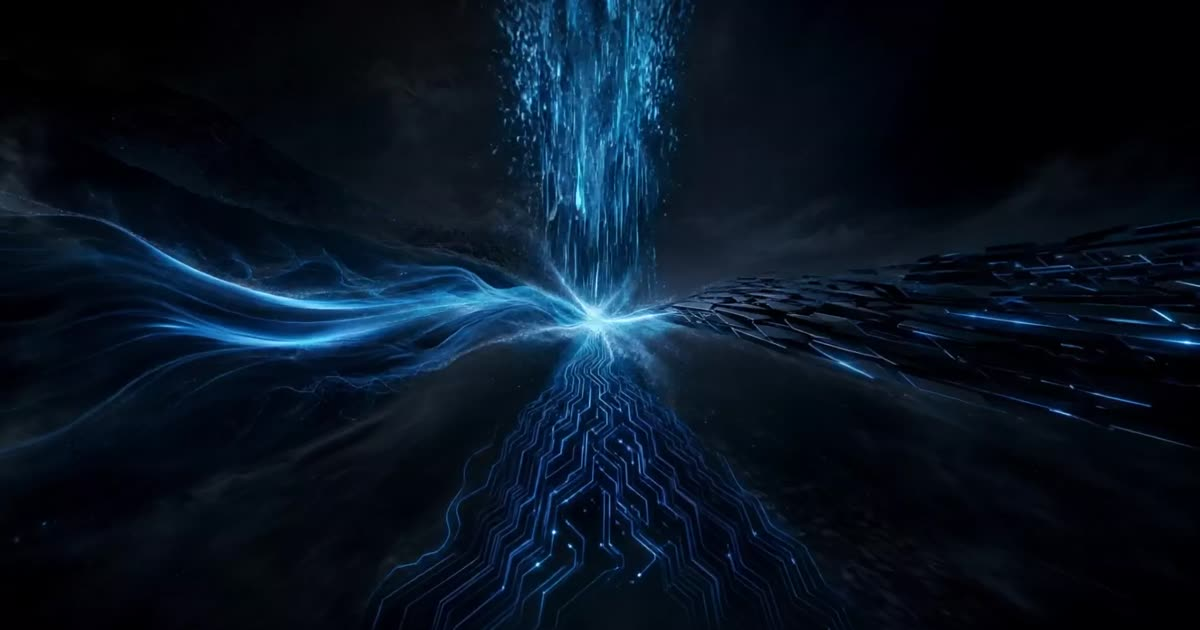
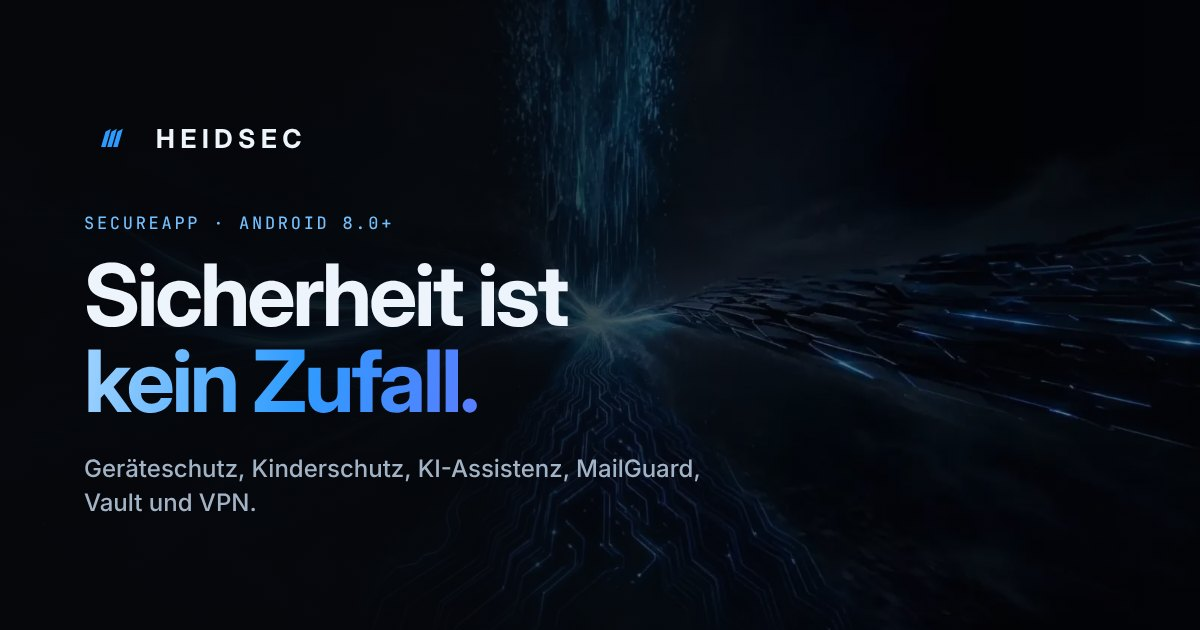
feat(landing-2): Tarife, Kombipakete, Kinderschutz und Business finalisieren
- Kombipakete (monatlich): PRO+VPN 12,98 €, PRO+MailGuard 10,98 €,
  PRO+Vault 10,98 €, PRO+MailGuard+Vault 13,97 €
- Kinderschutz in PRO und KI, KI-Sicherheitsassistenz mit 20 KI-Analysen/Monat
- Business PRO/KI Complete für 10–50 Geräte inkl. Jahrespreisen im Umschalter
- Zusatzgerät und Gerätelimits im Preis-Hinweis präzisiert
- Unbelegte Aussagen zu ausschließlich lokaler KI und Nichtübertragung entfernt
- Messenger-Produktstatus gekennzeichnet (nur Business-Pakete)
- Neues gebrandetes OG-Bild, OG/Twitter-Meta und JSON-LD aktualisiert

Claude-Session: https://claude.ai/code/session_01Q8CXDH6UExhyf4xjXfxUx2

diff --git a/landing-2/index.html b/landing-2/index.html
@@ -4,7 +4,7 @@
   <meta charset="utf-8" />
   <meta name="viewport" content="width=device-width, initial-scale=1, viewport-fit=cover" />
   <title>HeidSec SecureApp – Schutz für Smartphone, E-Mail, Daten und Verbindung</title>
-  <meta name="description" content="HeidSec SecureApp für Android: Geräteschutz, MailGuard, Vault, VPN und ein sicherer Messenger in einer App. Kostenlos starten mit FREE, erweitern mit PRO oder KI – die KI-Analyse läuft ausschließlich lokal auf deinem Gerät." />
+  <meta name="description" content="HeidSec SecureApp für Android: Geräte- und App-Schutz, Kinderschutz ab PRO, KI-Sicherheitsassistenz im KI-Tarif sowie MailGuard, Vault und VPN als Module und Kombipakete. Kostenlos starten mit FREE." />
   <meta name="robots" content="index, follow" />
   <link rel="canonical" href="https://www.heidsec.de/" />
   <meta name="theme-color" content="#05070b" />
@@ -15,12 +15,16 @@
   <meta property="og:locale" content="de_DE" />
   <meta property="og:url" content="https://www.heidsec.de/" />
   <meta property="og:title" content="HeidSec – Sicherheit ist kein Zufall." />
-  <meta property="og:description" content="Geräteschutz, MailGuard, Vault, VPN und sicherer Messenger in einer App. Kostenlos starten, bei Bedarf erweitern." />
-  <meta property="og:image" content="https://www.heidsec.de/heidsec/og-image.jpg" />
+  <meta property="og:description" content="Geräteschutz, Kinderschutz, KI-Sicherheitsassistenz, MailGuard, Vault und VPN. Kostenlos starten, bei Bedarf erweitern." />
+  <meta property="og:image" content="https://www.heidsec.de/assets/img/og-image.jpg" />
+  <meta property="og:image:type" content="image/jpeg" />
   <meta property="og:image:width" content="1200" />
   <meta property="og:image:height" content="630" />
   <meta property="og:image:alt" content="HeidSec – Sicherheit ist kein Zufall." />
   <meta name="twitter:card" content="summary_large_image" />
+  <meta name="twitter:title" content="HeidSec – Sicherheit ist kein Zufall." />
+  <meta name="twitter:description" content="Geräteschutz, Kinderschutz, KI-Sicherheitsassistenz, MailGuard, Vault und VPN. Kostenlos starten, bei Bedarf erweitern." />
+  <meta name="twitter:image" content="https://www.heidsec.de/assets/img/og-image.jpg" />
 
   <link rel="icon" type="image/svg+xml" href="assets/img/favicon.svg" />
   <link rel="icon" type="image/png" sizes="32x32" href="assets/img/favicon-32.png" />
@@ -59,21 +63,27 @@
         "applicationCategory": "SecurityApplication",
         "operatingSystem": "Android 8.0+",
         "publisher": { "@id": "https://www.heidsec.de/#organization" },
-        "description": "Sicherheits-App mit Geräte- und App-Schutz, MailGuard, Vault, VPN und sicherem Messenger (Textchat und Voice Calls). KI-Analyse ausschließlich lokal auf dem Gerät.",
+        "description": "Sicherheits-App mit Geräte- und App-Schutz, Kinderschutz (PRO und KI), KI-Sicherheitsassistenz (KI-Tarif, 20 KI-Analysen pro Monat) sowie MailGuard, Vault und VPN als zubuchbare Module.",
         "offers": [
           { "@type": "Offer", "name": "SecureApp FREE", "price": "0", "priceCurrency": "EUR" },
           { "@type": "Offer", "name": "SecureApp PRO (monatlich)", "price": "7.99", "priceCurrency": "EUR" },
           { "@type": "Offer", "name": "SecureApp PRO (jährlich)", "price": "79.99", "priceCurrency": "EUR" },
           { "@type": "Offer", "name": "SecureApp KI (monatlich)", "price": "12.99", "priceCurrency": "EUR" },
-          { "@type": "Offer", "name": "SecureApp KI (jährlich)", "price": "129.99", "priceCurrency": "EUR" }
+          { "@type": "Offer", "name": "SecureApp KI (jährlich)", "price": "129.99", "priceCurrency": "EUR" },
+          { "@type": "Offer", "name": "Kombipaket PRO + VPN (monatlich)", "price": "12.98", "priceCurrency": "EUR" },
+          { "@type": "Offer", "name": "Kombipaket PRO + MailGuard (monatlich)", "price": "10.98", "priceCurrency": "EUR" },
+          { "@type": "Offer", "name": "Kombipaket PRO + Vault (monatlich)", "price": "10.98", "priceCurrency": "EUR" },
+          { "@type": "Offer", "name": "Kombipaket PRO + MailGuard + Vault (monatlich)", "price": "13.97", "priceCurrency": "EUR" }
         ]
       },
       {
         "@type": "FAQPage",
         "mainEntity": [
           { "@type": "Question", "name": "Ist SecureApp FREE wirklich kostenlos?", "acceptedAnswer": { "@type": "Answer", "text": "Ja. SecureApp FREE kostet 0 € und bietet Basisschutz – ohne feste Laufzeit und jederzeit beendbar." } },
-          { "@type": "Question", "name": "Was ist der Unterschied zwischen FREE, PRO und KI?", "acceptedAnswer": { "@type": "Answer", "text": "FREE ist die kostenlose Basisversion. PRO (7,99 € im Monat oder 79,99 € im Jahr) erweitert den Leistungsumfang. KI (12,99 € im Monat oder 129,99 € im Jahr) bietet erweiterten Leistungsumfang inklusive Security-AI, die ausschließlich lokal auf deinem Gerät arbeitet." } },
-          { "@type": "Question", "name": "Kann ich im Messenger Dateien verschicken?", "acceptedAnswer": { "@type": "Answer", "text": "Nein, bewusst nicht. Der HeidSec Messenger ist auf sicheren Textchat und Voice Calls ausgelegt. Dateianhänge werden nicht unterstützt." } },
+          { "@type": "Question", "name": "Was ist der Unterschied zwischen FREE, PRO und KI?", "acceptedAnswer": { "@type": "Answer", "text": "FREE ist die kostenlose Basisversion. PRO (7,99 € im Monat oder 79,99 € im Jahr) erweitert den Leistungsumfang und enthält den Kinderschutz. KI (12,99 € im Monat oder 129,99 € im Jahr) enthält zusätzlich die KI-Sicherheitsassistenz mit 20 KI-Analysen pro Monat. VPN, MailGuard und Vault sind in keinem Tarif enthalten und separat oder als Kombipaket buchbar." } },
+          { "@type": "Question", "name": "Kann ich im Messenger Dateien verschicken?", "acceptedAnswer": { "@type": "Answer", "text": "Nein, bewusst nicht. Der HeidSec Messenger ist auf sicheren Textchat und Voice Calls ausgelegt. Dateien, Bilder und Videoanrufe werden nicht unterstützt. Enthalten ist der Messenger in Business PRO Complete und Business KI Complete; den Privattarifen FREE, PRO und KI ist er derzeit nicht zugeordnet." } },
+          { "@type": "Question", "name": "Gibt es Kombipakete?", "acceptedAnswer": { "@type": "Answer", "text": "Ja. PRO + VPN kostet 12,98 € im Monat, PRO + MailGuard 10,98 €, PRO + Vault 10,98 € und PRO + MailGuard + Vault 13,97 € im Monat." } },
+          { "@type": "Question", "name": "Für welche Tarife gilt der Kinderschutz?", "acceptedAnswer": { "@type": "Answer", "text": "Der Kinderschutz (Parental Control) ist in SecureApp PRO und SecureApp KI enthalten, nicht in FREE." } },
           { "@type": "Question", "name": "Welche Geräte werden unterstützt?", "acceptedAnswer": { "@type": "Answer", "text": "HeidSec SecureApp läuft auf Android-Geräten ab Version 8.0." } }
         ]
       }
@@ -402,6 +412,9 @@
     .composer .noattach { position: relative; width: 22px; height: 22px; color: var(--mist-2); opacity: .7; }
     .composer .noattach svg { width: 22px; height: 22px; }
     .composer .noattach::after { content: ""; position: absolute; left: -2px; right: -2px; top: 50%; height: 2px; background: var(--alert); transform: rotate(-45deg); border-radius: 2px; }
+    .msg-status { margin-top: 26px; display: flex; gap: 14px; align-items: flex-start; flex-wrap: wrap; padding: 16px 18px; border-radius: var(--radius-sm); background: rgba(46,155,255,.06); border: 1px solid rgba(46,155,255,.2); font-size: 14.5px; color: #cfe0f2; }
+    .msg-status p { flex: 1 1 260px; }
+    .msg-status strong { color: var(--frost); font-weight: 600; }
     @media (max-width: 900px) { .messenger-grid { grid-template-columns: 1fr; } }
 
     /* ---------- pricing ---------- */
@@ -442,6 +455,25 @@
     .addon .price { margin-top: auto; padding-top: 16px; }
     .addon .amt { font-size: 30px; }
     .addon .price-sub { min-height: 20px; margin-top: 4px; font-size: 12.5px; }
+    .bundles .addon h4 { font-size: 17px; }
+    .local-note a { color: var(--electric-soft); }
+    .biz-table { margin-top: 26px; border-radius: var(--radius); border: 1px solid var(--line); background: var(--panel); overflow: hidden; }
+    .biz-table table { width: 100%; border-collapse: collapse; font-variant-numeric: tabular-nums; }
+    .biz-table th, .biz-table td { padding: 16px 20px; text-align: left; border-bottom: 1px solid var(--line); }
+    .biz-table tbody tr:last-child th, .biz-table tbody tr:last-child td { border-bottom: 0; }
+    .biz-table thead th { font-family: var(--font-mono); font-size: 12px; font-weight: 500; letter-spacing: .1em; text-transform: uppercase; color: var(--mist-2); }
+    .biz-table tbody th { font-family: var(--font-display); font-size: 18px; width: 22%; }
+    .biz-table .price { margin: 0; gap: 6px; }
+    .biz-table .amt { font-family: var(--font-display); font-size: 20px; font-weight: 700; letter-spacing: -0.01em; }
+    .biz-table .per { font-size: 13px; }
+    .biz-table a { color: var(--electric-soft); font-weight: 600; }
+    @media (max-width: 560px) {
+      .biz-table th, .biz-table td { padding: 12px 10px; }
+      .biz-table thead th { font-size: 10.5px; letter-spacing: .06em; }
+      .biz-table tbody th { font-size: 16px; }
+      .biz-table .amt { font-size: 16px; }
+      .biz-table .per { display: block; font-size: 11.5px; }
+    }
     .price-legal { margin-top: 30px; padding: 20px 22px; border-radius: var(--radius-sm); border: 1px dashed var(--line-strong); color: var(--mist-2); font-size: 14px; line-height: 1.6; }
     .price-legal strong { color: var(--mist); font-weight: 600; }
     @media (max-width: 1040px) { .addons { grid-template-columns: repeat(2, minmax(0, 1fr)); } }
@@ -594,14 +626,14 @@
           <div>
             <p class="eyebrow reveal">HeidSec SecureApp · Android 8.0+</p>
             <h1 id="hero-title" class="reveal" style="--d:80ms">Sicherheit ist<br /><span class="grad">kein Zufall.</span></h1>
-            <p class="hero-lead reveal" style="--d:160ms">Eine App für dein Smartphone, deinen Posteingang, deine Daten, deine Verbindung und deine Gespräche. Starte kostenlos mit SecureApp FREE – und erweitere genau dort, wo du mehr Schutz brauchst.</p>
+            <p class="hero-lead reveal" style="--d:160ms">Eine App für dein Smartphone, deinen Posteingang, deine Daten und deine Verbindung. Starte kostenlos mit SecureApp FREE – und erweitere genau dort, wo du mehr Schutz brauchst.</p>
             <div class="hero-cta reveal" style="--d:240ms">
               <a class="btn btn-primary" href="/register/">SecureApp FREE starten <svg aria-hidden="true"><use href="#i-arrow"/></svg></a>
               <a class="btn btn-ghost" href="#preise">Preise vergleichen</a>
             </div>
             <ul class="hero-facts reveal" style="--d:320ms">
               <li><strong>0 €</strong><span>FREE ohne feste Laufzeit</span></li>
-              <li><strong>Lokal</strong><span>KI-Analyse nur auf deinem Gerät</span></li>
+              <li><strong>PRO</strong><span>Kinderschutz inklusive, auch im KI-Tarif</span></li>
               <li><strong>E2E</strong><span>Vault-Inhalte Ende-zu-Ende verschlüsselt</span></li>
             </ul>
           </div>
@@ -625,7 +657,7 @@
                   <div class="row"><i><svg><use href="#i-mail"/></svg></i><div><b>MailGuard</b><small>1 Nachricht in Quarantäne</small></div><em>OK</em></div>
                   <div class="row"><i><svg><use href="#i-globe"/></svg></i><div><b>VPN</b><small>Verbindung geschützt</small></div><em>AN</em></div>
                   <div class="row"><i><svg><use href="#i-vault"/></svg></i><div><b>Vault</b><small>Gesperrt</small></div><em class="dim">ZU</em></div>
-                  <div class="row"><i><svg><use href="#i-chat"/></svg></i><div><b>Messenger</b><small>Textchat &amp; Voice Calls</small></div><em>OK</em></div>
+                  <div class="row"><i><svg><use href="#i-family"/></svg></i><div><b>Kinderschutz</b><small>Profil aktiv</small></div><em>AN</em></div>
                 </div>
               </div>
             </div>
@@ -675,24 +707,24 @@
             <a href="#vpn">Mehr zum VPN <svg width="16" height="16" aria-hidden="true"><use href="#i-arrow"/></svg></a>
           </article>
           <article class="layer reveal" style="--d:80ms">
-            <span class="tag">SecureApp</span>
+            <span class="tag">Business</span>
             <div class="layer-ico"><svg aria-hidden="true"><use href="#i-chat"/></svg></div>
             <h3>Kommunikation</h3>
-            <p>Der HeidSec Messenger für sicheren Textchat und Voice Calls – bewusst ohne Dateianhänge.</p>
+            <p>Der HeidSec Messenger für sicheren Textchat und Voice Calls – bewusst ohne Dateianhänge. Enthalten in den Business-Paketen.</p>
             <a href="#messenger">Mehr zum Messenger <svg width="16" height="16" aria-hidden="true"><use href="#i-arrow"/></svg></a>
           </article>
           <article class="layer reveal" style="--d:160ms">
             <span class="tag">SecureApp KI</span>
             <div class="layer-ico"><svg aria-hidden="true"><use href="#i-chip"/></svg></div>
-            <h3>Security-AI</h3>
-            <p>Die KI verknüpft die Befunde der Schutzmodule zu verständlichen Empfehlungen – ausschließlich lokal auf deinem Gerät.</p>
+            <h3>KI-Sicherheitsassistenz</h3>
+            <p>Die KI verknüpft die Befunde der Schutzmodule zu verständlichen Empfehlungen – mit 20 KI-Analysen pro Monat im KI-Tarif.</p>
             <a href="#secureapp">Mehr zu SecureApp KI <svg width="16" height="16" aria-hidden="true"><use href="#i-arrow"/></svg></a>
           </article>
           <article class="layer layer-wide reveal">
             <div class="layer-ico"><svg aria-hidden="true"><use href="#i-family"/></svg></div>
             <div>
               <h3>Und für die Familie: Kinderschutz</h3>
-              <p>Kindersicherungsfunktionen helfen Eltern, den digitalen Alltag ihrer Kinder altersgerecht und sicher zu gestalten.</p>
+              <p>Kindersicherungsfunktionen helfen Eltern, den digitalen Alltag ihrer Kinder altersgerecht und sicher zu gestalten. Enthalten in SecureApp PRO und KI.</p>
             </div>
             <a href="#faq-kinderschutz">Was der Kinderschutz kann <svg width="16" height="16" aria-hidden="true"><use href="#i-arrow"/></svg></a>
           </article>
@@ -727,19 +759,20 @@
             <p>Der volle Schritt nach vorn: erweiterter Leistungsumfang für alle, die ihre Sicherheit ernst nehmen.</p>
             <ul>
               <li><svg aria-hidden="true"><use href="#i-check"/></svg>Erweiterter Leistungsumfang gegenüber FREE</li>
+              <li><svg aria-hidden="true"><use href="#i-check"/></svg>Kinderschutz (Parental Control) inklusive</li>
               <li><svg aria-hidden="true"><use href="#i-check"/></svg>Monatlich oder jährlich buchbar</li>
               <li><svg aria-hidden="true"><use href="#i-check"/></svg>Kündigung per Kundenportal oder Play Store</li>
             </ul>
             <p class="step-price"><b>7,99 €</b> / Monat · <b>79,99 €</b> / Jahr</p>
           </div>
           <div class="step step-ki">
-            <span class="badge"><svg width="13" height="13" aria-hidden="true"><use href="#i-chip"/></svg>Lokale KI</span>
+            <span class="badge"><svg width="13" height="13" aria-hidden="true"><use href="#i-chip"/></svg>KI-Assistenz</span>
             <div class="step-level" aria-hidden="true"><i class="on"></i><i class="on"></i><i class="on"></i></div>
-            <h3>KI <small>Mit Security-AI</small></h3>
-            <p>Erweiterter Leistungsumfang plus Security-AI, die die Befunde deiner Schutzmodule zu klaren Handlungsempfehlungen verdichtet.</p>
+            <h3>KI <small>Mit KI-Assistenz</small></h3>
+            <p>Alles aus PRO plus KI-Sicherheitsassistenz, die die Befunde deiner Schutzmodule zu klaren Handlungsempfehlungen verdichtet.</p>
             <ul>
-              <li><svg aria-hidden="true"><use href="#i-check"/></svg>Erweiterter Leistungsumfang inklusive Security-AI</li>
-              <li><svg aria-hidden="true"><use href="#i-check"/></svg>KI-Analyse läuft ausschließlich auf deinem Gerät</li>
+              <li><svg aria-hidden="true"><use href="#i-check"/></svg>Alles aus PRO, inklusive Kinderschutz</li>
+              <li><svg aria-hidden="true"><use href="#i-check"/></svg>KI-Sicherheitsassistenz mit 20 KI-Analysen pro Monat</li>
               <li><svg aria-hidden="true"><use href="#i-check"/></svg>Handlungsempfehlungen aus den Befunden deiner Module</li>
             </ul>
             <p class="step-price"><b>12,99 €</b> / Monat · <b>129,99 €</b> / Jahr</p>
@@ -748,7 +781,7 @@
 
         <div class="local-note reveal">
           <svg aria-hidden="true"><use href="#i-lock"/></svg>
-          <p><strong>Was lokal bedeutet:</strong> Die Security-AI arbeitet auf deinem Smartphone. Eingaben, Befunde und Modell-Interaktionen werden weder an HeidSec noch an Dritte übermittelt. KI-Einschätzungen unterstützen deine Entscheidung – sie ersetzen keine sachkundige Prüfung.</p>
+          <p><strong>Gut zu wissen:</strong> KI-Einschätzungen unterstützen deine Entscheidung – sie ersetzen keine sachkundige Prüfung. Wie KI-Analysen verarbeitet werden, regeln die <a href="/legal/ki-bedingungen/">KI-Bedingungen</a> und die <a href="/legal/datenschutz/">Datenschutzerklärung</a>. VPN, MailGuard und Vault sind in keinem Tarif enthalten und als Module oder Kombipakete buchbar.</p>
         </div>
       </div>
     </section>
@@ -831,6 +864,10 @@
               <h2 id="messenger-title" class="reveal">Sicher schreiben.<br /><span class="grad">Sicher sprechen.</span></h2>
               <p class="reveal">Der HeidSec Messenger konzentriert sich auf das, was in einem Gespräch zählt: Worte und Stimme. Dateianhänge lassen wir bewusst weg – und schließen damit einen der häufigsten Wege, über die Schadsoftware und manipulierte Dokumente verbreitet werden.</p>
             </div>
+            <div class="msg-status reveal" role="note" aria-label="Produktstatus Messenger">
+              <span class="badge">Produktstatus</span>
+              <p><strong>Enthalten in Business PRO Complete und Business KI Complete.</strong> Den Privattarifen FREE, PRO und KI ist der Messenger derzeit nicht zugeordnet.</p>
+            </div>
             <div class="msg-points">
               <div class="msg-point reveal">
                 <div class="layer-ico"><svg aria-hidden="true"><use href="#i-chat"/></svg></div>
@@ -842,7 +879,7 @@
               </div>
               <div class="msg-point no reveal" style="--d:160ms">
                 <div class="layer-ico"><svg aria-hidden="true"><use href="#i-clip"/></svg></div>
-                <div><h3>Keine Anhänge – mit Absicht</h3><p>Keine Dateien, Bilder oder Dokumente. Weniger Funktionen, weniger Angriffsfläche.</p></div>
+                <div><h3>Keine Anhänge – mit Absicht</h3><p>Keine Dateien, Bilder, Dokumente oder Videoanrufe. Weniger Funktionen, weniger Angriffsfläche.</p></div>
               </div>
             </div>
           </div>
@@ -908,6 +945,7 @@
             <p>Erweiterter Leistungsumfang für alle, die mehr als den Basisschutz wollen.</p>
             <ul>
               <li><svg aria-hidden="true"><use href="#i-check"/></svg>Erweiterter Leistungsumfang</li>
+              <li><svg aria-hidden="true"><use href="#i-check"/></svg>Kinderschutz (Parental Control)</li>
               <li><svg aria-hidden="true"><use href="#i-check"/></svg>Monats- oder Jahresabo</li>
               <li><svg aria-hidden="true"><use href="#i-check"/></svg>Kündigung per Kundenportal oder Play Store</li>
             </ul>
@@ -915,15 +953,15 @@
           </article>
 
           <article class="plan feature reveal" style="--d:160ms" aria-labelledby="p-ki">
-            <span class="badge"><svg width="13" height="13" aria-hidden="true"><use href="#i-chip"/></svg>Mit lokaler Security-AI</span>
+            <span class="badge"><svg width="13" height="13" aria-hidden="true"><use href="#i-chip"/></svg>Mit KI-Sicherheitsassistenz</span>
             <h3 id="p-ki">SecureApp <b>KI</b></h3>
             <div class="price" data-price data-m="12,99" data-y="129,99"><span class="amt">12,99 €</span><span class="per">/ Monat</span></div>
             <p class="price-sub" data-sub data-m="oder 129,99 € im Jahr" data-y="25,89 € gespart ggü. monatlich">oder 129,99 € im Jahr</p>
-            <p>Erweiterter Leistungsumfang inklusive Security-AI – die Analyse läuft ausschließlich lokal.</p>
+            <p>Alles aus PRO plus KI-Sicherheitsassistenz für verständliche Handlungsempfehlungen.</p>
             <ul>
-              <li><svg aria-hidden="true"><use href="#i-check"/></svg>Erweiterter Leistungsumfang</li>
-              <li><svg aria-hidden="true"><use href="#i-check"/></svg>Security-AI auf deinem Gerät</li>
-              <li><svg aria-hidden="true"><use href="#i-check"/></svg>Keine Übertragung von KI-Daten</li>
+              <li><svg aria-hidden="true"><use href="#i-check"/></svg>Alles aus PRO, inklusive Kinderschutz</li>
+              <li><svg aria-hidden="true"><use href="#i-check"/></svg>KI-Sicherheitsassistenz</li>
+              <li><svg aria-hidden="true"><use href="#i-check"/></svg>20 KI-Analysen pro Monat</li>
             </ul>
             <a class="btn btn-primary" href="/register/">KI wählen <svg aria-hidden="true"><use href="#i-arrow"/></svg></a>
           </article>
@@ -932,7 +970,7 @@
         <div class="addons-head">
           <div>
             <h3 class="reveal">Sicherheitsmodule &amp; Geräte</h3>
-            <p class="reveal">Einzeln zu deiner SecureApp buchbar.</p>
+            <p class="reveal">Einzeln zu deiner SecureApp buchbar – in keinem Tarif enthalten.</p>
           </div>
         </div>
 
@@ -963,8 +1001,64 @@
           </article>
         </div>
 
+
+        <div class="addons-head">
+          <div>
+            <h3 class="reveal">Kombipakete</h3>
+            <p class="reveal">SecureApp PRO zusammen mit deinen Modulen in einem Abo. Preise pro Monat.</p>
+          </div>
+        </div>
+
+        <div class="addons bundles">
+          <article class="addon reveal">
+            <div class="addon-top"><div class="layer-ico"><svg aria-hidden="true"><use href="#i-globe"/></svg></div><h4>PRO + VPN</h4></div>
+            <p>SecureApp PRO mit verschlüsseltem Tunnel.</p>
+            <div class="price"><span class="amt">12,98 €</span><span class="per">/ Monat</span></div>
+          </article>
+          <article class="addon reveal" style="--d:60ms">
+            <div class="addon-top"><div class="layer-ico"><svg aria-hidden="true"><use href="#i-mail"/></svg></div><h4>PRO + MailGuard</h4></div>
+            <p>SecureApp PRO mit Phishing-Schutz für E-Mails.</p>
+            <div class="price"><span class="amt">10,98 €</span><span class="per">/ Monat</span></div>
+          </article>
+          <article class="addon reveal" style="--d:120ms">
+            <div class="addon-top"><div class="layer-ico"><svg aria-hidden="true"><use href="#i-vault"/></svg></div><h4>PRO + Vault</h4></div>
+            <p>SecureApp PRO mit verschlüsseltem Tresor.</p>
+            <div class="price"><span class="amt">10,98 €</span><span class="per">/ Monat</span></div>
+          </article>
+          <article class="addon reveal" style="--d:180ms">
+            <div class="addon-top"><div class="layer-ico"><svg aria-hidden="true"><use href="#i-shield"/></svg></div><h4>PRO + MailGuard + Vault</h4></div>
+            <p>SecureApp PRO mit E-Mail-Schutz und Tresor.</p>
+            <div class="price"><span class="amt">13,97 €</span><span class="per">/ Monat</span></div>
+          </article>
+        </div>
+        <p class="fine reveal">Kombipakete: monatliche Preise. Alle Kombipakete enthalten SecureApp PRO inklusive Kinderschutz.</p>
+
+        <div class="addons-head" id="business">
+          <div>
+            <h3 class="reveal">Für Unternehmen</h3>
+            <p class="reveal">Business PRO Complete und Business KI Complete – jeweils mit Messenger und VPN, für 10 bis 50 Geräte. Business KI enthält 20 KI-Analysen pro Gerät und Monat als gemeinsamen Pool für das gesamte Unternehmen.</p>
+          </div>
+        </div>
+
+        <div class="biz-table reveal">
+          <table>
+            <caption class="sr-only">Business-Preise nach Anzahl der Geräte</caption>
+            <thead>
+              <tr><th scope="col">Geräte</th><th scope="col">Business PRO Complete</th><th scope="col">Business KI Complete</th></tr>
+            </thead>
+            <tbody>
+              <tr><th scope="row">10</th><td><span class="price" data-price data-m="59,90" data-y="599"><span class="amt">59,90 €</span><span class="per">/ Monat</span></span></td><td><span class="price" data-price data-m="89,90" data-y="899"><span class="amt">89,90 €</span><span class="per">/ Monat</span></span></td></tr>
+              <tr><th scope="row">15</th><td><span class="price" data-price data-m="79,90" data-y="799"><span class="amt">79,90 €</span><span class="per">/ Monat</span></span></td><td><span class="price" data-price data-m="119,90" data-y="1.199"><span class="amt">119,90 €</span><span class="per">/ Monat</span></span></td></tr>
+              <tr><th scope="row">20</th><td><span class="price" data-price data-m="99,90" data-y="999"><span class="amt">99,90 €</span><span class="per">/ Monat</span></span></td><td><span class="price" data-price data-m="149,90" data-y="1.499"><span class="amt">149,90 €</span><span class="per">/ Monat</span></span></td></tr>
+              <tr><th scope="row">30</th><td><span class="price" data-price data-m="139,90" data-y="1.399"><span class="amt">139,90 €</span><span class="per">/ Monat</span></span></td><td><span class="price" data-price data-m="209,90" data-y="2.099"><span class="amt">209,90 €</span><span class="per">/ Monat</span></span></td></tr>
+              <tr><th scope="row">50</th><td><span class="price" data-price data-m="199,90" data-y="1.999"><span class="amt">199,90 €</span><span class="per">/ Monat</span></span></td><td><span class="price" data-price data-m="299,90" data-y="2.999"><span class="amt">299,90 €</span><span class="per">/ Monat</span></span></td></tr>
+              <tr><th scope="row">&gt; 50</th><td colspan="2"><a href="mailto:info@heidsec.de?subject=Business-Angebot%20%C3%BCber%2050%20Ger%C3%A4te">Individuelles Angebot anfragen</a></td></tr>
+            </tbody>
+          </table>
+        </div>
+
         <div class="price-legal reveal">
-          <strong>Gut zu wissen:</strong> Alle Preise in Euro inklusive gesetzlicher Umsatzsteuer. Den genauen Leistungsumfang und die Gerätelimits deines Tarifs siehst du vor Vertragsschluss in der App bzw. im Kundenportal. Die Abrechnung erfolgt in der Android-App über Google Play, auf der Website über Stripe – HeidSec speichert keine Kartennummern oder IBANs. Website-Abos kündigst du jederzeit über den Kündigungsbutton im Kundenportal, Google-Play-Abos in der Abo-Verwaltung des Play Store.
+          <strong>Gut zu wissen:</strong> Alle Preise in Euro inklusive gesetzlicher Umsatzsteuer. Weitere Geräte sicherst du mit dem Zusatzgerät für 0,99 € / Monat oder 9,99 € / Jahr ab; die Business-Pakete gelten für die jeweils angegebene Geräteanzahl. Den genauen Leistungsumfang und das Gerätelimit deines Privattarifs siehst du vor Vertragsschluss in der App bzw. im Kundenportal. Die Abrechnung erfolgt in der Android-App über Google Play, auf der Website über Stripe – HeidSec speichert keine Kartennummern oder IBANs. Website-Abos kündigst du jederzeit über den Kündigungsbutton im Kundenportal, Google-Play-Abos in der Abo-Verwaltung des Play Store.
         </div>
       </div>
     </section>
@@ -980,10 +1074,10 @@
 
         <div class="trust-grid">
           <div class="commit reveal">
-            <div><p class="k">KI</p><h3>Lokal statt Cloud</h3><p>Die Security-AI arbeitet auf deinem Gerät. KI-Daten verlassen es nicht.</p></div>
+            <div><p class="k">Preise</p><h3>Alles auf einen Blick</h3><p>Tarife, Module, Kombipakete, Zusatzgeräte und Business-Pakete stehen mit ihren Preisen auf dieser Seite – inklusive Umsatzsteuer.</p></div>
             <div><p class="k">Vault</p><h3>Nur Chiffretext auf dem Server</h3><p>Vault-Inhalte sind Ende-zu-Ende-verschlüsselt. Den Schlüssel hältst nur du.</p></div>
             <div><p class="k">Zahlung</p><h3>Keine Kartendaten bei uns</h3><p>Abgerechnet wird über Google Play oder Stripe. Kartennummern und IBANs speichern wir nicht.</p></div>
-            <div><p class="k">Daten</p><h3>Kein Verkauf, keine Weitergabe</h3><p>Deine Daten sind kein Geschäftsmodell. Details regelt unsere Datenschutzerklärung.</p></div>
+            <div><p class="k">Daten</p><h3>Transparent geregelt</h3><p>Welche Daten wir wofür verarbeiten und welche Dienstleister beteiligt sind, steht vollständig in der Datenschutzerklärung.</p></div>
             <div><p class="k">Diese Seite</p><h3>Kein Tracking</h3><p>Keine Analyse- oder Werbedienste, keine Cookies, keine externen Schriften.</p></div>
             <div><p class="k">Kündigung</p><h3>Fair beenden</h3><p>Kündigungsbutton im Kundenportal, Bestätigung per E-Mail. Dein Leistungsumfang bleibt bis zum Laufzeitende erhalten.</p></div>
           </div>
@@ -1014,15 +1108,19 @@
           </details>
           <details>
             <summary>Was ist der Unterschied zwischen FREE, PRO und KI?<span class="pm" aria-hidden="true"></span></summary>
-            <div class="faq-answer"><p>FREE ist die kostenlose Basisversion. PRO (7,99 € / Monat oder 79,99 € / Jahr) bietet einen erweiterten Leistungsumfang. KI (12,99 € / Monat oder 129,99 € / Jahr) bietet erweiterten Leistungsumfang inklusive Security-AI, die ausschließlich lokal auf deinem Gerät arbeitet.</p><p>Den genauen Leistungsumfang und die Gerätelimits zeigen wir dir vor Vertragsschluss in der App bzw. im Kundenportal.</p></div>
+            <div class="faq-answer"><p>FREE ist die kostenlose Basisversion. PRO (7,99 € / Monat oder 79,99 € / Jahr) bietet einen erweiterten Leistungsumfang und enthält den Kinderschutz. KI (12,99 € / Monat oder 129,99 € / Jahr) enthält zusätzlich die KI-Sicherheitsassistenz mit 20 KI-Analysen pro Monat. VPN, MailGuard und Vault sind in keinem Tarif enthalten.</p><p>Den genauen Leistungsumfang und das Gerätelimit deines Tarifs zeigen wir dir vor Vertragsschluss in der App bzw. im Kundenportal.</p></div>
           </details>
           <details>
             <summary>Wie funktionieren die Sicherheitsmodule?<span class="pm" aria-hidden="true"></span></summary>
-            <div class="faq-answer"><p>MailGuard (2,99 € / Monat oder 29,99 € / Jahr), Vault (2,99 € / Monat oder 29,99 € / Jahr) und VPN (4,99 € / Monat oder 49,99 € / Jahr) buchst du einzeln zu deiner SecureApp hinzu. Für ein weiteres Gerät kommt ein Zusatzgerät für 0,99 € / Monat oder 9,99 € / Jahr dazu.</p></div>
+            <div class="faq-answer"><p>MailGuard (2,99 € / Monat oder 29,99 € / Jahr), Vault (2,99 € / Monat oder 29,99 € / Jahr) und VPN (4,99 € / Monat oder 49,99 € / Jahr) buchst du einzeln zu deiner SecureApp hinzu. Für ein weiteres Gerät kommt ein Zusatzgerät für 0,99 € / Monat oder 9,99 € / Jahr dazu.</p><p>Als Kombipaket mit SecureApp PRO: PRO + VPN 12,98 €, PRO + MailGuard 10,98 €, PRO + Vault 10,98 € und PRO + MailGuard + Vault 13,97 € – jeweils pro Monat.</p></div>
           </details>
           <details>
             <summary>Kann ich im Messenger Dateien oder Bilder verschicken?<span class="pm" aria-hidden="true"></span></summary>
-            <div class="faq-answer"><p>Nein, bewusst nicht. Der HeidSec Messenger ist für sicheren Textchat und Voice Calls gemacht. Dateianhänge werden nicht unterstützt – das hält die Angriffsfläche klein.</p></div>
+            <div class="faq-answer"><p>Nein, bewusst nicht. Der HeidSec Messenger ist für sicheren Textchat und Voice Calls gemacht. Dateien, Bilder und Videoanrufe werden nicht unterstützt – das hält die Angriffsfläche klein.</p><p>Enthalten ist der Messenger in Business PRO Complete und Business KI Complete. Den Privattarifen FREE, PRO und KI ist er derzeit nicht zugeordnet.</p></div>
+          </details>
+          <details>
+            <summary>Gibt es Angebote für Unternehmen?<span class="pm" aria-hidden="true"></span></summary>
+            <div class="faq-answer"><p>Ja. Business PRO Complete und Business KI Complete gibt es für 10, 15, 20, 30 oder 50 Geräte, jeweils mit Messenger und VPN. Business KI enthält 20 KI-Analysen pro Gerät und Monat als gemeinsamen Pool. Ab mehr als 50 Geräten erstellen wir ein individuelles Angebot – die Preise findest du unter <a href="#business">Für Unternehmen</a>.</p></div>
           </details>
           <details>
             <summary>Welche Geräte werden unterstützt?<span class="pm" aria-hidden="true"></span></summary>
@@ -1030,7 +1128,7 @@
           </details>
           <details>
             <summary>Wie steht es um den Datenschutz?<span class="pm" aria-hidden="true"></span></summary>
-            <div class="faq-answer"><p>Vault-Inhalte sind Ende-zu-Ende-verschlüsselt – unsere Server erhalten ausschließlich Chiffretext. KI-Daten werden ausschließlich lokal auf deinem Gerät verarbeitet und nicht übertragen. Zahlungsdaten wie Kartennummern oder IBANs speichert HeidSec nicht; die Abwicklung erfolgt über Stripe (Website) bzw. Google Play (Android). Alle Details findest du in der <a href="/legal/datenschutz/">Datenschutzerklärung</a>.</p></div>
+            <div class="faq-answer"><p>Vault-Inhalte sind Ende-zu-Ende-verschlüsselt – unsere Server erhalten ausschließlich Chiffretext. Wie KI-Analysen verarbeitet werden, regeln die <a href="/legal/ki-bedingungen/">KI-Bedingungen</a>. Zahlungsdaten wie Kartennummern oder IBANs speichert HeidSec nicht; die Abwicklung erfolgt über Stripe (Website) bzw. Google Play (Android). Alle Details findest du in der <a href="/legal/datenschutz/">Datenschutzerklärung</a>.</p></div>
           </details>
           <details>
             <summary>Wie kündige ich mein Abonnement?<span class="pm" aria-hidden="true"></span></summary>
@@ -1038,7 +1136,7 @@
           </details>
           <details id="faq-kinderschutz">
             <summary>Was kann der Kinderschutz?<span class="pm" aria-hidden="true"></span></summary>
-            <div class="faq-answer"><p>Der Kinderschutz ist eine Kindersicherungsfunktion (Parental Control), die Eltern hilft, den digitalen Alltag ihrer Kinder altersgerecht und sicher zu gestalten.</p></div>
+            <div class="faq-answer"><p>Der Kinderschutz ist eine Kindersicherungsfunktion (Parental Control), die Eltern hilft, den digitalen Alltag ihrer Kinder altersgerecht und sicher zu gestalten. Er ist in SecureApp PRO und SecureApp KI enthalten, nicht in FREE.</p></div>
           </details>
         </div>
       </div>

diff --git a/landing-2/README.md b/landing-2/README.md
@@ -15,5 +15,15 @@ cd landing-2 && python3 -m http.server 8792 --bind 127.0.0.1
 ```
 
 Links auf `/register/`, `/login/`, `/legal/...` usw. sind wurzelrelativ und funktionieren erst auf www.heidsec.de.
-Preise stammen ausschließlich aus der verbindlichen Preistabelle; Kombipakete sind bewusst nicht enthalten,
-da keine bestätigten Paketpreise vorlagen.
+`og:image`/`twitter:image` zeigen auf `https://www.heidsec.de/assets/img/og-image.jpg` – setzt voraus, dass die Seite im Web-Root liegt.
+
+## Inhaltsquellen
+
+- Privattarife, Module, Zusatzgerät: verbindliche Owner-Preistabelle (Monat/Jahr).
+- Kombipakete (nur Monatspreise bestätigt): PRO+VPN 12,98 €, PRO+MailGuard 10,98 €, PRO+Vault 10,98 €, PRO+MailGuard+Vault 13,97 €.
+- Kinderschutz in PRO und KI, KI-Sicherheitsassistenz nur KI (20 KI-Analysen/Monat): owner-bestätigte Matrix (`claude/website-v2-concept-b`, 92bdb9b).
+- Business PRO/KI Complete (10–50 Geräte, Messenger + VPN, KI-Pool 20/Gerät/Monat): Produktkanon `website-v2/src/data/pricing.ts`.
+- Messenger: Textchat + Voice Calls, ohne Dateien/Medien/Videoanrufe; nur Business-Pakete, keinem Privattarif zugeordnet.
+- Aussagen zu „ausschließlich lokaler“ KI-Verarbeitung wurden entfernt: im Repository nicht durch Architektur belegt
+  (monatliche KI-Kontingente und ein unternehmensweiter KI-Pool sprechen gegen rein lokale Verarbeitung).
+- Gerätelimits der Privattarife sind nicht festgelegt und werden nicht genannt.
